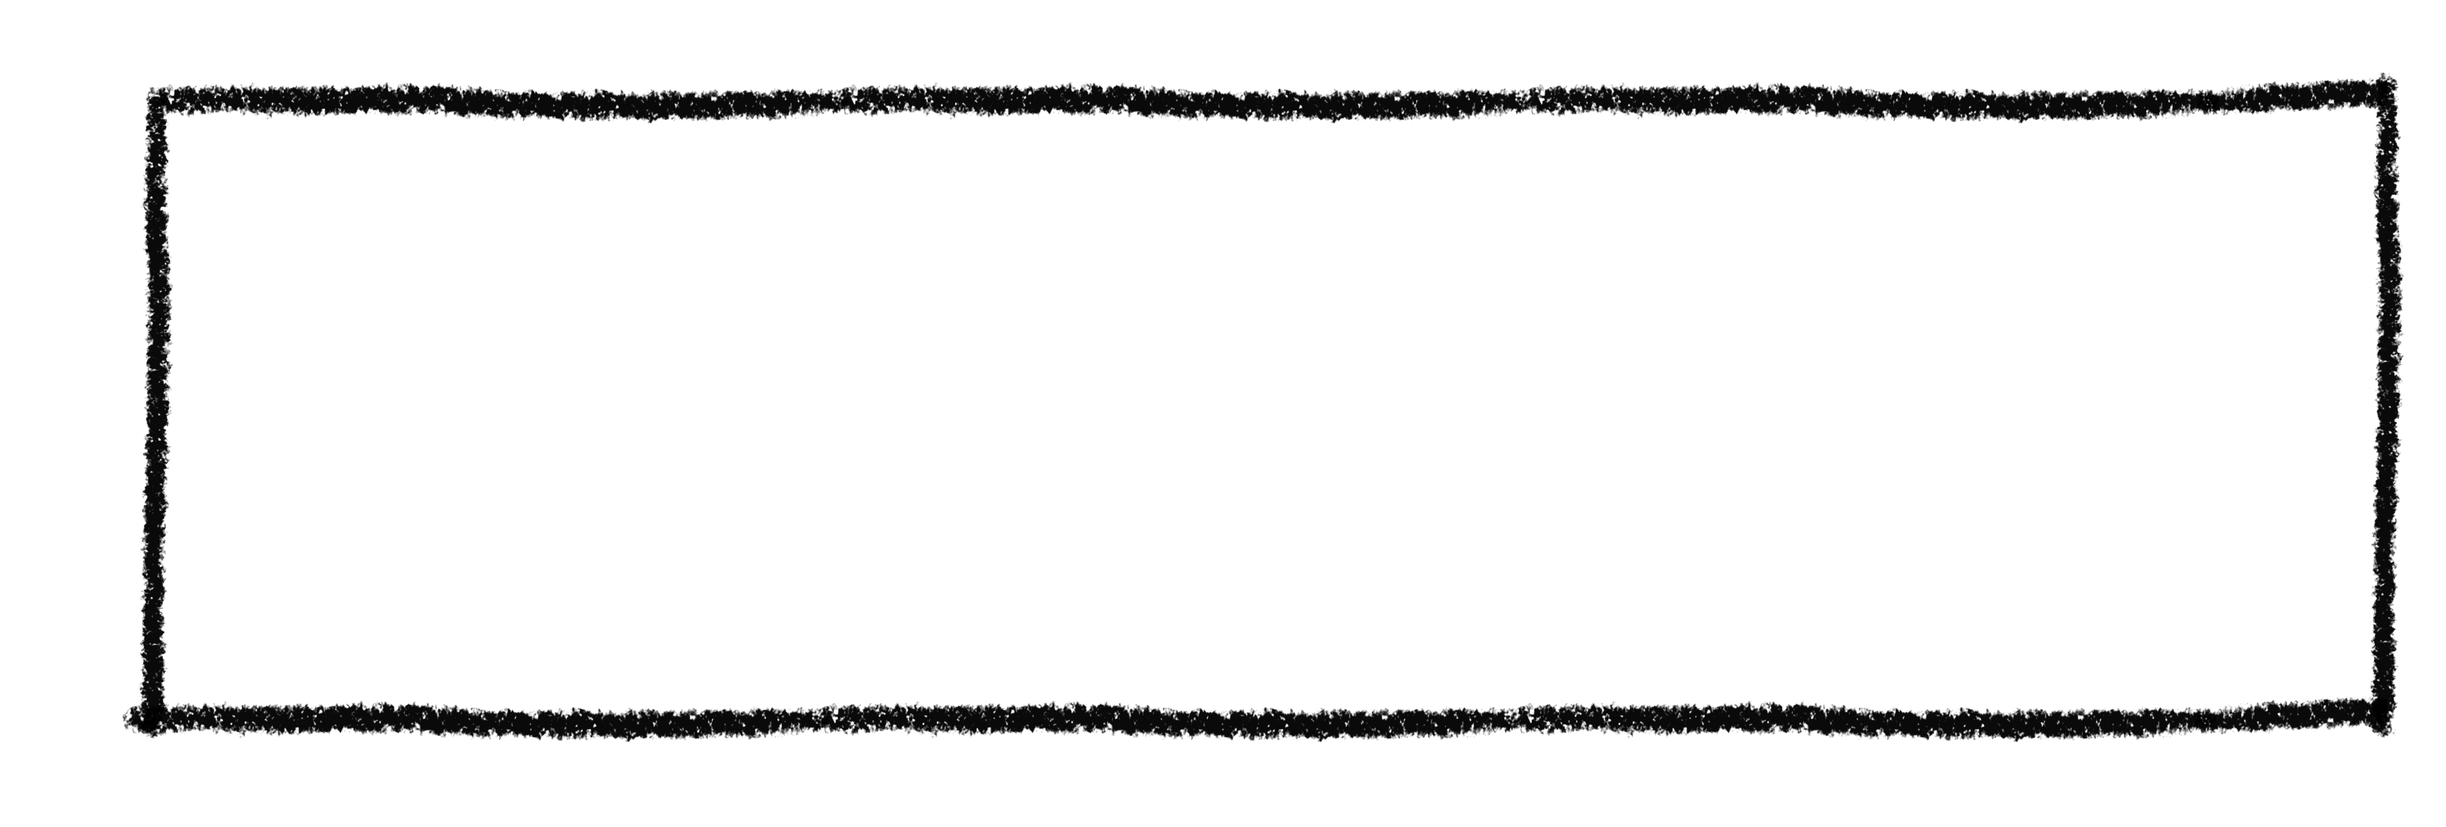
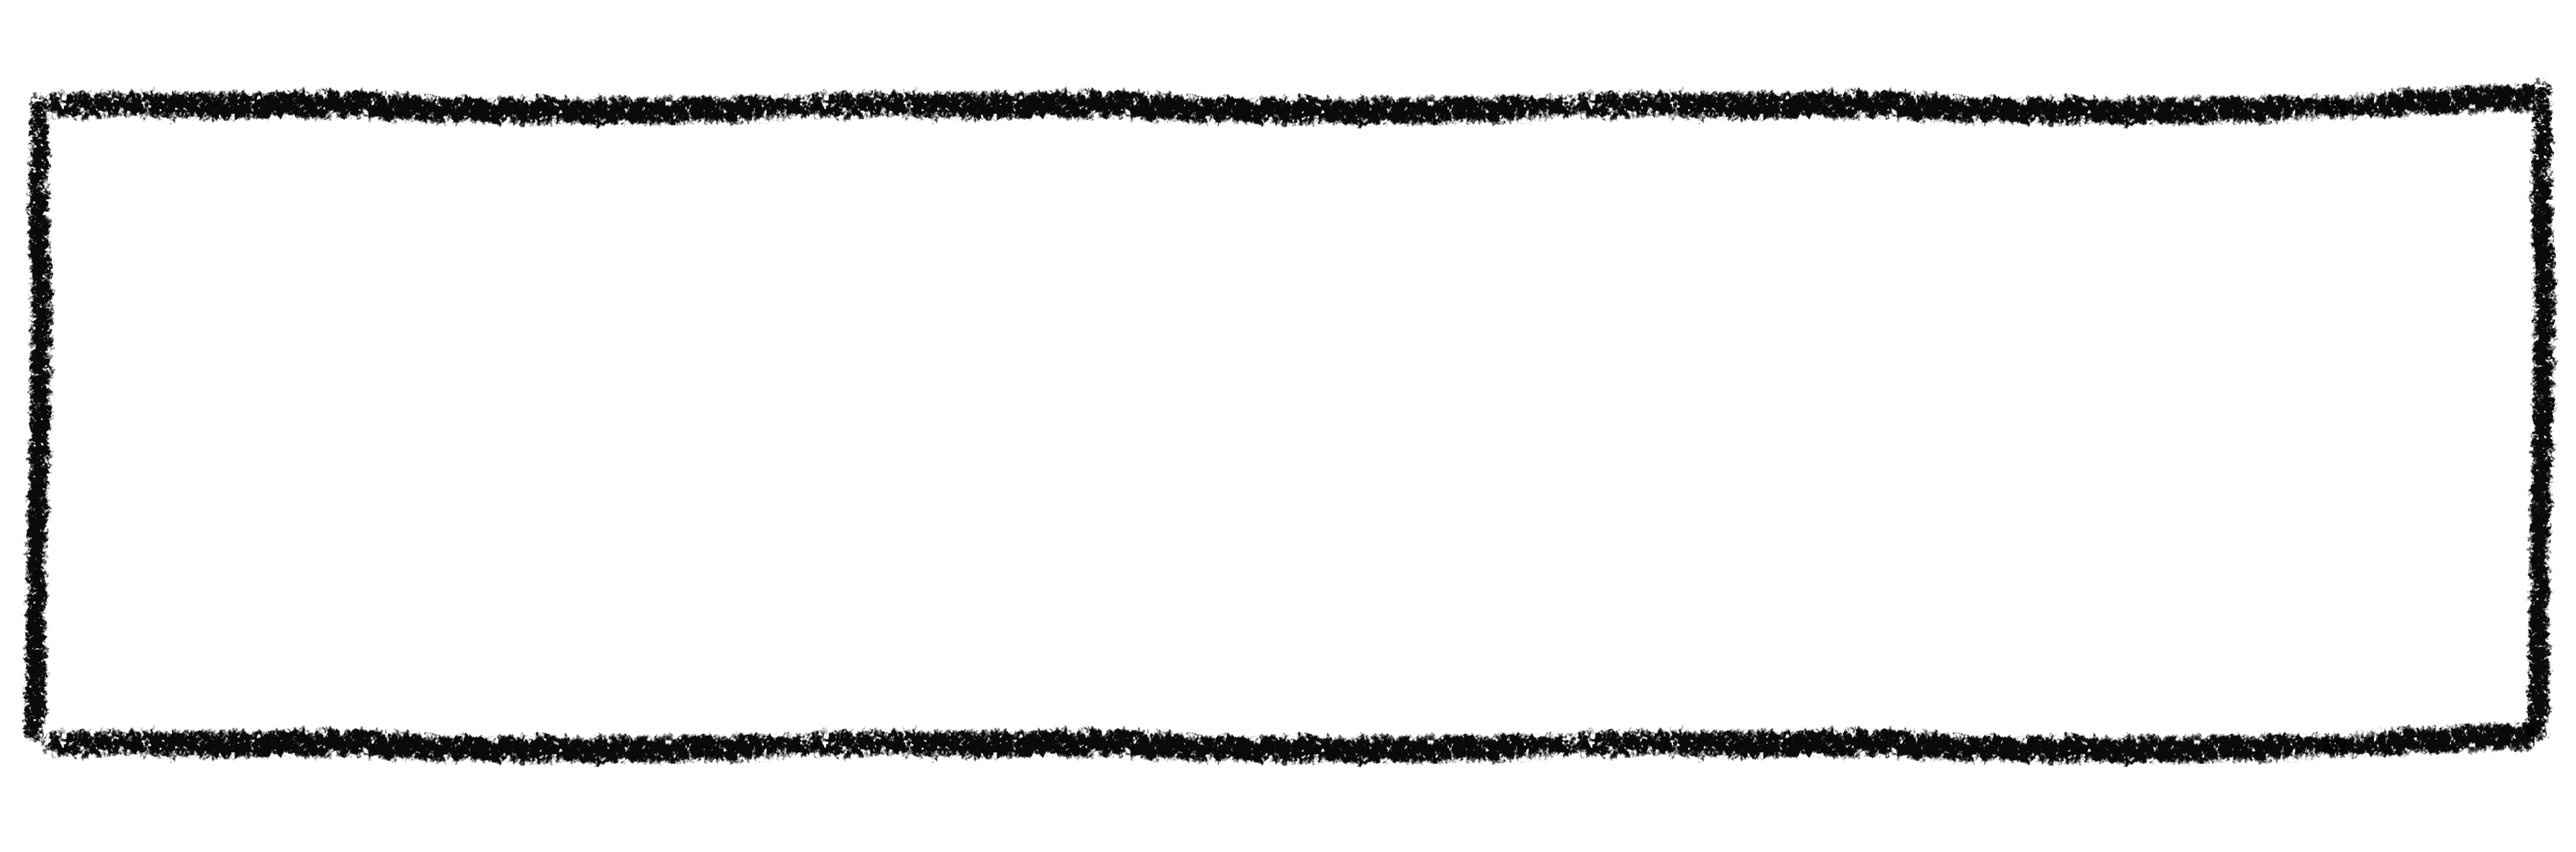
[FE] design: 자랑글 디테일 css 수정
이슈: S08P22C201-

Changed region(s): [[0.0, 0.0928, 0.9957, 0.8967]]

diff --git a/front/src/pages/community/review/detail/index.tsx b/front/src/pages/community/review/detail/index.tsx
@@ -4,6 +4,9 @@ import { useParams } from 'react-router-dom'
 import { switchFollow } from './apis/follow'
 import review_detail_dummy from './dummydata'
 
+import reviewDetailBox from '@/assets/drawings/reviewDetailBox.png'
+import shortline from '@/assets/drawings/shortline.png'
+
 import atoms from '@/components/atoms'
 
 function DetailReviewCommunity() {
@@ -42,7 +45,88 @@ function DetailReviewCommunity() {
           onClick={() => switchFollow(follow, setFollow)}
         />
       </div>
-      <div id="information"></div>
+      <div className="flex flex-col items-center">
+        <div>
+          <img alt="detailbox" className="relative" src={reviewDetailBox} />
+        </div>
+        <div className=" justify-center absolute mt-[8rem]">
+          <div className="flex" id="information">
+            <div className="grid grid-cols-2 gap-10">
+              {/* 실 이름 */}
+              <div className="flex">
+                <div className="mr-[1rem]" id="info-name">
+                  <p className="text-headline-bold">실 이름</p>
+                </div>
+                <div id="info-content">
+                  <div className="content-center">
+                    <p className="w-[12rem] text-center text-body">
+                      {review?.yarnName}
+                    </p>
+                    <img alt="하단 선" className="w-[12rem]" src={shortline} />
+                  </div>
+                </div>
+              </div>
+              {/* 사용한 바늘 */}
+              <div className="flex">
+                <div className="mr-[1rem]" id="info-name">
+                  <p className="text-headline-bold">사용한 바늘</p>
+                </div>
+                <div id="info-content">
+                  <div className="content-center">
+                    <p className="w-[12rem] text-center text-body">
+                      {review?.needle}
+                    </p>
+                    <img alt="하단 선" className="w-[12rem]" src={shortline} />
+                  </div>
+                </div>
+              </div>
+
+              {/* 실 길이/무게 */}
+              <div className="flex">
+                <div className="mr-[1rem]" id="info-name">
+                  <p className="text-headline-bold">실 길이/무게</p>
+                </div>
+                <div id="info-content">
+                  <div className="content-center">
+                    <p className="w-[12rem] text-center text-body">
+                      {review?.yarnLength} m / {review?.yarnWeight} g
+                    </p>
+                    <img alt="하단 선" className="w-[12rem]" src={shortline} />
+                  </div>
+                </div>
+              </div>
+              {/* 소요기간 */}
+              <div className="flex">
+                <div className="mr-[1rem]" id="info-name">
+                  <p className="text-headline-bold">소요기간</p>
+                </div>
+                <div id="info-content">
+                  <div className="content-center">
+                    <p className="w-[12rem] text-center text-body">
+                      {review?.time}
+                    </p>
+                    <img alt="하단 선" className="w-[12rem]" src={shortline} />
+                  </div>
+                </div>
+              </div>
+            </div>
+            {/* 도안 */}
+            <div className="flex ml-12">
+              <div className="mr-[1rem]" id="info-name">
+                <p className="text-headline-bold">도안</p>
+              </div>
+              <div id="info-content">
+                <div
+                  className="w-[9rem] h-[9rem] rounded-[1rem] bg-cover bg-center"
+                  style={{
+                    backgroundImage: `url(${review?.pattern.patternImage})`,
+                  }}
+                ></div>
+              </div>
+            </div>
+          </div>
+        </div>
+      </div>
     </div>
   )
 }

diff --git a/front/src/components/atoms/image/ImageUser.tsx b/front/src/components/atoms/image/ImageUser.tsx
@@ -3,8 +3,11 @@ import React from 'react'
 function ImageUser({ src, alt }: ImageProps) {
   return (
     <div>
-      <div className="h-[2.8rem] w-[2.88rem] rounded-[2rem] overflow-hidden">
-        <img alt={alt} src={src} />
+      <div
+        className="h-[2.8rem] w-[2.88rem] rounded-[2rem]  bg-center bg-cover "
+        style={{ backgroundImage: `url(${src})` }}
+      >
+        {/* <img alt={alt} src={src} /> */}
       </div>
     </div>
   )

diff --git a/front/src/pages/community/review/detail/dummydata.ts b/front/src/pages/community/review/detail/dummydata.ts
@@ -9,7 +9,7 @@ const review_detail_dummy: ReviewDetail = {
   yarnWeight: 30,
   yarnLength: 200,
   needle: '대바늘 2호',
-  time: '2023-03-29 17시',
+  time: '일주일',
   boardId: 1,
   user: {
     isFollow: true,
